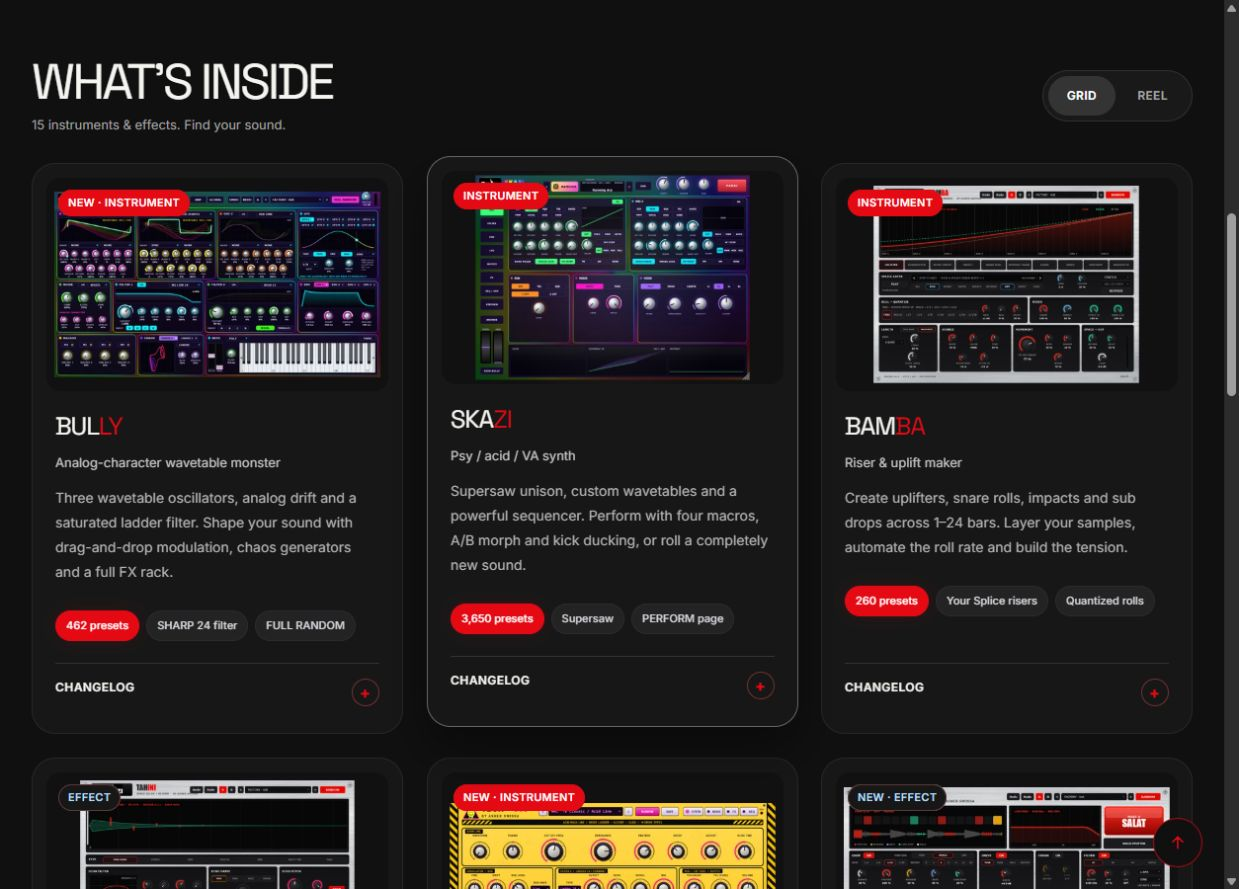
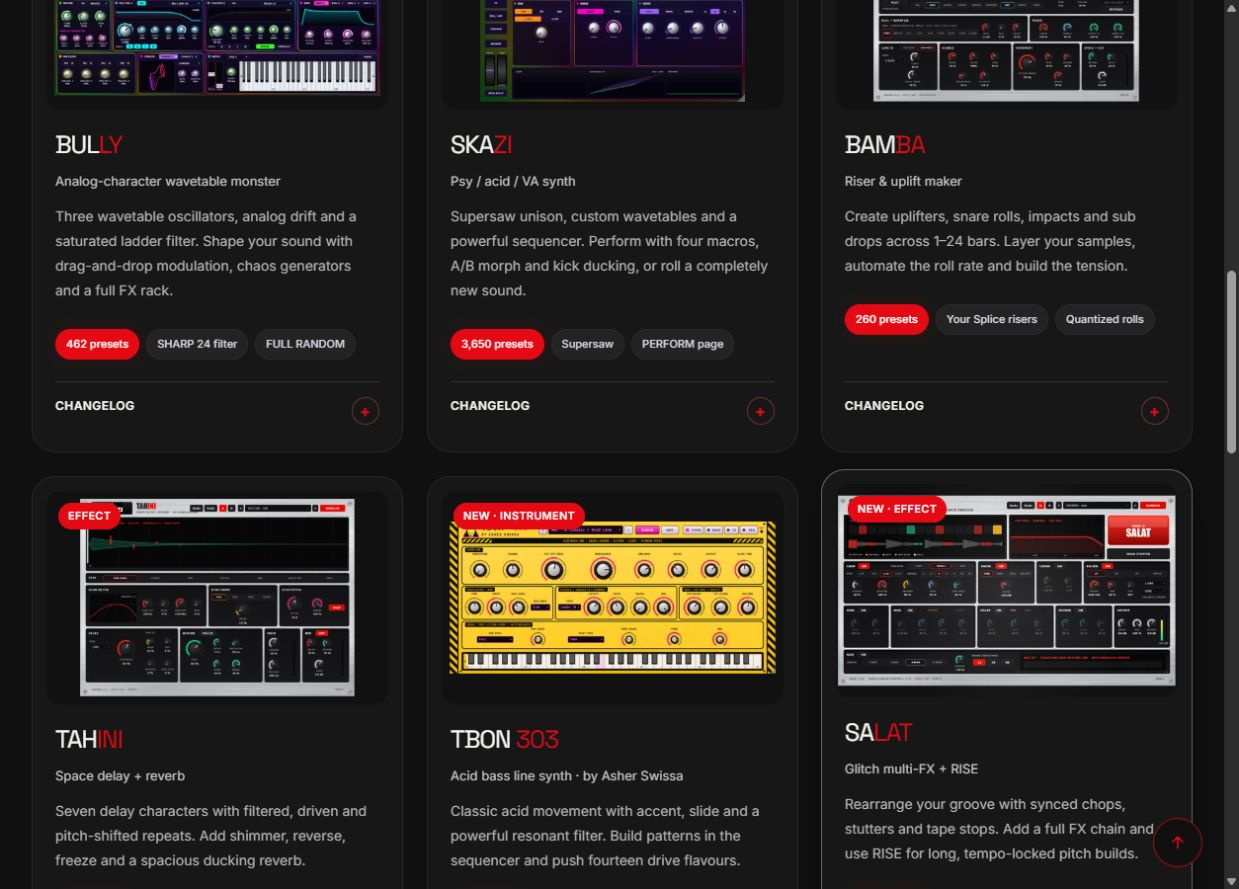
Match effect badges to red gallery labels

diff --git a/docs/site-experience.css b/docs/site-experience.css
@@ -198,7 +198,7 @@ footer .wrap{font-size:12px}
 .explore-plugins span{color:var(--accent-text);font-size:21px}
 #plugins:focus{outline:none}
 #plugins .film-gallery[data-view="grid"] .badge{color:#fff;background:var(--acid);opacity:1;border-color:var(--acid);font-size:11px}
-#plugins .film-gallery[data-view="grid"] .badge.fx{color:#b8dfff;background:#171717;border-color:#5b3838}
+#plugins .film-gallery .badge.fx{color:#fff;background:var(--acid);border-color:var(--acid);opacity:1}
 #plugins h3 em{color:var(--accent-text)}
 .info-topline,.hero-info-trigger:hover,.free-label{color:#f5f5f5}
 .btn-red,.btn-red:hover,.chip.hot,.tab.on,.skip-link,::selection{color:#fff}

diff --git a/docs/review/QA-FOLLOWUP.md b/docs/review/QA-FOLLOWUP.md
@@ -7,7 +7,7 @@
 - The image lightbox makes the background inert and restores focus on Close/Escape. The original PNG is loaded for enlargement, not the compressed thumbnail.
 - A visible Explore the plugins link is available in the first mobile viewport and moves keyboard focus to the labelled gallery. At 390px, the gallery starts around 1,130px rather than 1,409px; the hero is around 927px rather than 1,173px.
 - Hero and all 15 plugin thumbnails use responsive WebP variants with intrinsic dimensions. Reel mode requests a larger candidate. Existing full-size PNG assets remain available. See image-optimization.json for source and variant sizes: source images total 4,967,572 bytes; small variants total 416,680 bytes (about 92% smaller). This is an asset-size comparison, not a measured page-load-speed claim.
-- Instrument badges use Netflix red (#E50914) with white text; effect badges retain opaque dark backgrounds and light blue text. Small artist captions are 11px. Guide and Reel corners now match the rounded design.
+- Instrument and effect badges use Netflix red (#E50914) with white text. Small artist captions are 11px. Guide and Reel corners now match the rounded design.
 
 ## Verified
 
@@ -27,7 +27,7 @@ Calculated contrast ratios for selected opaque colour pairs:
 | Text | Ratio |
 | --- | --- |
 | White instrument badge text on Netflix red | 4.79:1 |
-| Effect badge | 12.84:1 |
+| White effect badge text on Netflix red | 4.79:1 |
 | Netflix red large heading on card (#171717) | 3.74:1 |
 | Card description | 8.74:1 |
 | White preset text on Netflix red | 4.79:1 |
